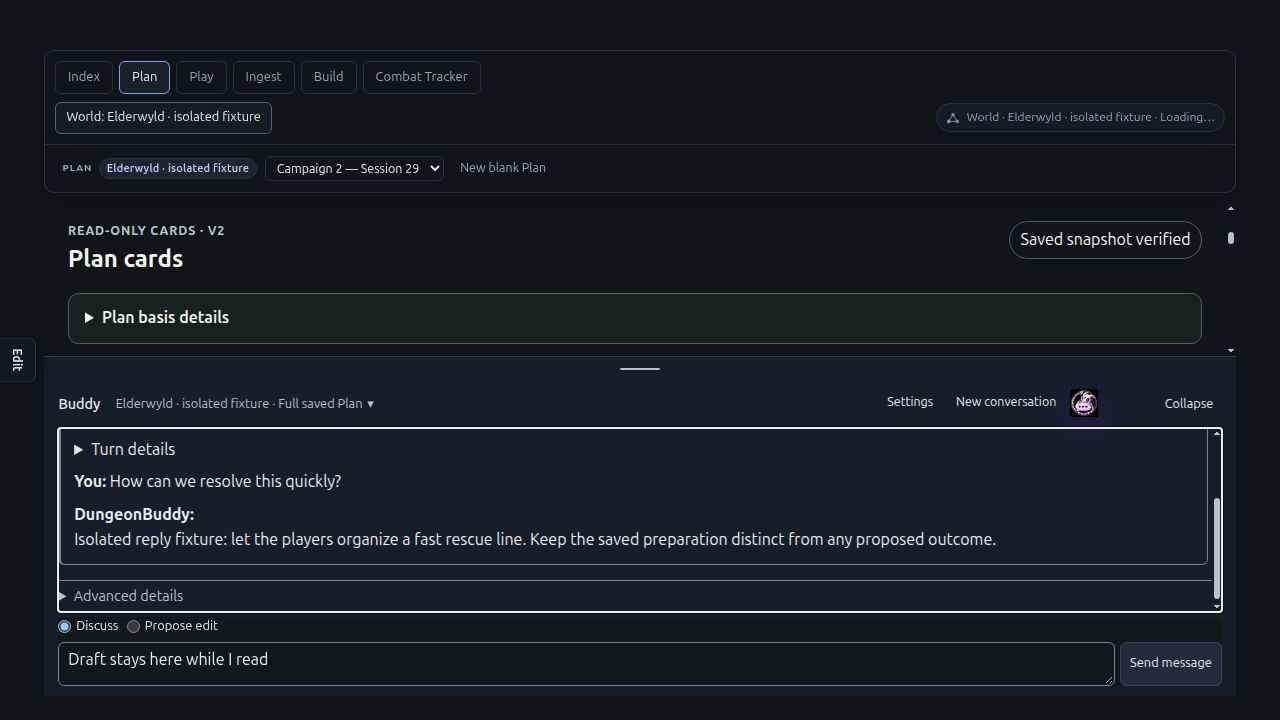
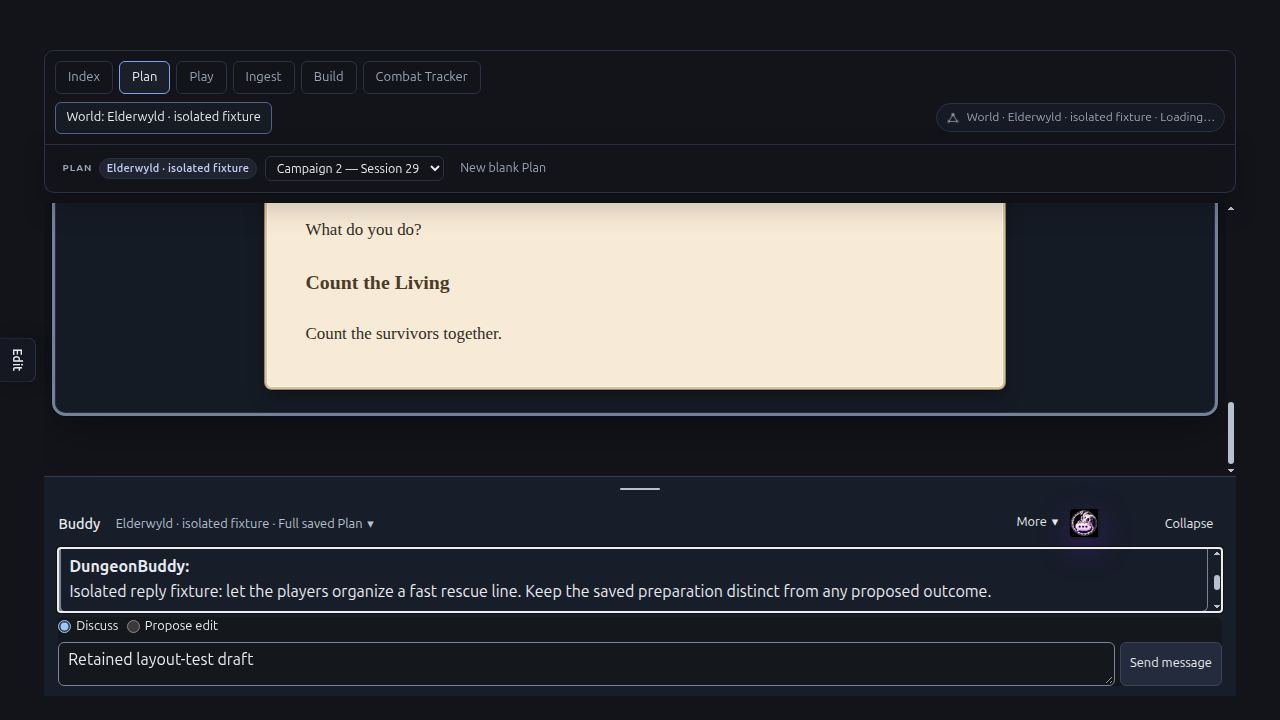
DOGFOOD: keep the reader dominant when opening conversation

diff --git a/apps/live-control-ui/src/planSurface/components/PlanConversationDockAdapter.css b/apps/live-control-ui/src/planSurface/components/PlanConversationDockAdapter.css
@@ -1,7 +1,13 @@
 .plan-conversation-dock { inline-size:100%; min-block-size:0; }
 .plan-conversation-dock .world-owned-plan { width:100%; max-width:76rem; margin-block:0.75rem; padding-inline:0.5rem; }
-.plan-conversation-dock__messages .world-plan-agent-conversation__body { overflow:visible; }
+.plan-conversation-dock__messages .world-plan-agent-conversation__body { overflow:visible; gap:0.35rem; }
+.plan-conversation-dock__messages .world-plan-agent-conversation__advanced { margin:0; padding:0; border:0; }
 .plan-conversation-dock__messages .world-plan-agent-conversation__turns { overflow:visible; max-height:none; flex:none; }
+.plan-conversation-dock__messages .world-plan-agent-conversation__turns > h3 { position:absolute; inline-size:1px; block-size:1px; clip-path:inset(50%); overflow:hidden; }
+.plan-conversation-dock__messages .world-plan-agent-conversation__turns:has(> article) > p[role="note"] { display:none; }
+.plan-conversation-dock__messages .world-plan-agent-conversation__turns article[data-sequence] { grid-template-columns:minmax(0,1fr) auto; gap:0.4rem; padding:0.5rem; }
+.plan-conversation-dock__messages .world-plan-agent-conversation__turns article[data-sequence] > details { grid-column:2; grid-row:1; }
+.plan-conversation-dock__messages .world-plan-agent-conversation__turns article[data-sequence] > :not(.world-plan-agent-conversation__context):not(details) { grid-column:1 / -1; }
 .plan-conversation-dock__messages .world-plan-agent-conversation__notice { display:none; }
 .plan-conversation-dock__composer .world-plan-agent-conversation__composer { border:0; padding:0; }
 .plan-conversation-dock__composer .world-plan-agent-conversation__composer form { display:flex; flex-wrap:wrap; align-items:flex-end; }
@@ -19,9 +25,17 @@
 .plan-conversation-dock .plan-conversation-dock__launcher .plan-agent-bar { position:static; height:auto; padding:0; background:transparent; border:0; min-height:0; }
 .plan-conversation-dock .plan-conversation-dock__launcher .plan-agent-bar button { inline-size:2rem; block-size:2rem; min-inline-size:var(--conversation-dock-control-hit-size); min-block-size:var(--conversation-dock-control-hit-size); padding:0; }
 .plan-conversation-dock .plan-conversation-dock__launcher .plan-agent-bar button img { inline-size:1.75rem; block-size:1.75rem; }
+.plan-conversation-dock__management { position:relative; }
+.plan-conversation-dock__management > summary { display:flex; align-items:center; min-block-size:var(--conversation-dock-control-hit-size); padding:0.25rem 0.45rem; font-size:0.8rem; }
+.plan-conversation-dock__management > summary::after { content:"▾"; margin-inline-start:0.3rem; }
+.plan-conversation-dock__management > div { position:absolute; bottom:100%; right:0; z-index:2; inline-size:15rem; max-block-size:10rem; overflow:auto; padding:0.5rem; border:1px solid var(--conversation-dock-border); border-radius:var(--ui-radius-sm); background:var(--conversation-dock-chat-background); }
+.plan-conversation-dock__management:not([open]) > div { display:none; }
 @media (max-width:42rem) {
-  .plan-conversation-dock .conversation-dock__header { display:grid; grid-template-columns:auto minmax(0,1fr) auto; }
+  .plan-conversation-dock .conversation-dock__header { display:grid; grid-template-columns:minmax(0,1fr) auto auto; }
+  .plan-conversation-dock .conversation-dock__header > strong { position:absolute; inline-size:1px; block-size:1px; clip-path:inset(50%); overflow:hidden; }
   .plan-conversation-dock .conversation-dock__context-toggle { max-inline-size:100%; }
-  .plan-conversation-dock .conversation-dock__actions { grid-column:1 / -1; grid-row:2; margin-inline-start:0; align-items:center; }
+  .plan-conversation-dock .conversation-dock__context-toggle span:first-child { position:absolute; inline-size:1px; block-size:1px; clip-path:inset(50%); overflow:hidden; }
+  .plan-conversation-dock .conversation-dock__context-toggle::before { content:"Context"; }
+  .plan-conversation-dock .conversation-dock__actions { grid-column:2; grid-row:1; margin-inline-start:0; align-items:center; }
   .plan-conversation-dock .conversation-dock__toggle { grid-column:3; grid-row:1; }
 }

diff --git a/apps/live-control-ui/src/planSurface/components/PlanConversationDockAdapter.tsx b/apps/live-control-ui/src/planSurface/components/PlanConversationDockAdapter.tsx
@@ -43,7 +43,8 @@ function MountedPlanDock({reader,contextLabel,children,slot}:AdapterProps & {slo
     <ConversationDock className="plan-conversation-dock" reader={reader} readerLabel="Plan workspace"
       conversationLabel="Saved World Plan conversation"
       title="Buddy" contextLabel={contextLabel} expanded={paneState.isOpen} onExpandedChange={setPaneOpen}
-      headerActions={<><div ref={header}/><div ref={setLauncherHost} className="plan-conversation-dock__launcher"/></>}
+      initialHeight={220} minHeight={180}
+      headerActions={<><details className="plan-conversation-dock__management"><summary>More</summary><div ref={header}/></details><div ref={setLauncherHost} className="plan-conversation-dock__launcher"/></>}
       contextDetails={<div ref={context}/>}
       messages={<div ref={messages} className="plan-conversation-dock__messages"/>}
       composer={<div ref={composer} className="plan-conversation-dock__composer"/>}/>

diff --git a/apps/live-control-ui/src/planSurface/components/PlanConversationDockAdapter.test.tsx b/apps/live-control-ui/src/planSurface/components/PlanConversationDockAdapter.test.tsx
@@ -31,6 +31,7 @@ describe("PlanConversationDockAdapter",()=>{
     const input=await screen.findByLabelText("Message Buddy"),reader=screen.getByLabelText("Plan draft");
     await user.type(input,"Remember the sleepers");
     await waitFor(()=>expect(screen.getByRole("log")).toBeVisible());
+    expect(screen.getByRole("separator", {name:"Resize Buddy conversation"})).toHaveAttribute("aria-valuenow", "220");
     await user.click(screen.getByRole("button",{name:"Collapse",exact:true}));
     expect(screen.getByLabelText("Message Buddy")).toBe(input);
     expect(input).toHaveValue("Remember the sleepers");

diff --git a/apps/live-control-ui/src/planSurface/PlanSurfacePage.test.tsx b/apps/live-control-ui/src/planSurface/PlanSurfacePage.test.tsx
@@ -906,6 +906,7 @@ it("connects and revokes the local Agent and Graph session from Settings", async
   );
 
   fireEvent.click(await screen.findByRole("button", { name: "Open" }));
+  fireEvent.click(screen.getByText("More", {exact:true}));
   fireEvent.click(await screen.findByRole("button", { name: "Settings" }));
   expect(screen.queryByLabelText("Local operator credential")).not.toBeInTheDocument();
   fireEvent.click(screen.getByRole("button", { name: "Connect local session" }));

diff --git a/Docs/Plans/HANDOFF-DOGFOOD-plan-bottom-dock.md b/Docs/Plans/HANDOFF-DOGFOOD-plan-bottom-dock.md
@@ -2,7 +2,7 @@
 
 Status: ACTIVE, implementation submitted for independent review; no merge authority.
 
-Branch: `codex/dogfood-plan-bottom-dock`. Base: merged `25914c4d9e944f3f951053a7b1ac5656bc0c5ceb`. Topology: serial; no unmerged parent inherited. PRIME explicitly activated this bounded frontend design and exclusive write lease on 2026-10-07. #970 merged with controlled focus acceptance and released Page/test ownership; parked #979 conversation paths were explicitly transferred. No further operator or architecture design gate applies.
+Branch: `codex/dogfood-plan-bottom-dock`. Base: merged `de22fdefd5b3d8265f85c6b1109f5edd67db660f`. Topology: serial; no unmerged parent inherited. PRIME explicitly activated this bounded frontend design and exclusive write lease on 2026-10-07. #970 merged with controlled focus acceptance and released Page/test ownership; parked #979 conversation paths were explicitly transferred. No further operator or architecture design gate applies.
 
 The unpublished terminal recovery repair `2bdfb4050ab1bc235c6022741d43a5d99cfac1db` is excluded. This implementation neither copies nor inherits it and preserves merged-main request/recovery semantics, including current stale warnings. Source acceptance and runtime adoption remain separate.
 
@@ -18,7 +18,7 @@ World Plan has one readable document/card workspace above one resizable bottom c
 4. AskPluginSlot gains a bounded layout-owner discriminator: chrome or plan-workspace. It does not hold chat payloads or commands. While plan-workspace owns presentation, AgentInteractionChrome preserves the existing dragon launcher and pane state but does not mount a duplicate Plan Ask overlay, resize rail or root-width reservation. Cleanup restores legacy ownership when leaving the adopted Plan.
 5. AppChrome gains an opt-in bounded workspace mode requested only by this World Plan adopter. Inspection correction: current AppChrome center/Peek workspace wrapper is mounted for Ingest, not automatically for Plan. The adopter therefore needs an explicit Plan height-owning center below existing navigation; it must not assume that wrapper already exists. Do not add a competing Graph inspector or reroute #970's inspection controller in this slice.
 6. styles.css changes are limited to the opted-in Plan workspace's height/scroll composition and suppressing obsolete agent-width reservation for that owner. Existing edit-toolbox and legacy other-surface behavior stay supported. No guessed fixed navigation offsets.
-7. Normal composer presentation is one controlled text box and Send with a compact existing intent control. Graph policy, exact IDs and target metadata are inspectable context. Settings/recovery/proposal review use the existing scrollable message region when opened, not another floating panel. Defaults and request/retry rules are unchanged. Current card focus still includes the saved Plan; do not label it scene-only context.
+7. Normal composer presentation is one controlled text box and Send with a compact existing intent control. Initial open conversation height is220px; users may deliberately resize. Settings/New Conversation remain existing controller actions under a closed More disclosure. Graph policy, exact IDs and target metadata are inspectable context. Settings/recovery/proposal review use the existing scrollable message region when opened, not another floating panel. Defaults and request/retry rules are unchanged. Current card focus still includes the saved Plan; do not label it scene-only context.
 
 ## Exact expected write set for activation
 

diff --git a/Docs/Plans/evidence/dogfood-plan-bottom-dock/README.md b/Docs/Plans/evidence/dogfood-plan-bottom-dock/README.md
@@ -1,6 +1,6 @@
 # Plan bottom conversation — integration evidence
 
-Base: merged `25914c4d9e944f3f951053a7b1ac5656bc0c5ceb`. Branch: `codex/dogfood-plan-bottom-dock`. Review the cumulative base-to-head diff; this evidence is source/fixture verification, not operator-runtime acceptance.
+Base: merged `de22fdefd5b3d8265f85c6b1109f5edd67db660f`. Branch: `codex/dogfood-plan-bottom-dock`. Review the cumulative base-to-head diff; this evidence is source/fixture verification, not operator-runtime acceptance.
 
 ## Actual composition
 
@@ -20,3 +20,9 @@ The first narrow inspection caught inherited `.app-shell-layout { display:block 
 ## Limits
 
 This adopts bottom conversation layout, not the complete successful prototype. Cards remain the existing production cards. Discuss/Propose intent, Graph opt-in, full committed-Plan context and backend request limits are unchanged. Existing recovery warnings remain visible; the unpublished terminal recovery repair was not copied, inherited or recreated. No source entitlement, native chronology or statblock linkage is established by this UI fixture.
+
+## Independent geometry correction
+
+PRIME held the first head's open allocation: the conversation dominated the reader. The correction starts open chat at 220px (resizing remains deliberate); actual default desktop reader is272.67px and narrow reader263.83px. The composer is visible inside both viewports with one launcher and no horizontal overflow. `geometry.json` captures full measured rectangles. Closed management controls are under More, normal transcript heading/caught-up copy is reduced, and turn metadata shares one compact row. Settings/context were opened and closed with a retained draft and enabled Send; no request was submitted. A pointer drag expanded chat to310px, shown separately in `deliberately-expanded.png`; this is a user-selected allocation, not the default.
+
+After the correction, the affected adapter and owning Page suites pass64tests. Unchanged boundary suites remain as previously verified. The actual branch parent/mergebase is merged de22fdefd5b3d8265f85c6b1109f5edd67db660f (includes #996); the earlier25914 label was incorrect and is corrected here and in the handoff. No unpublished recovery repair was inherited.
